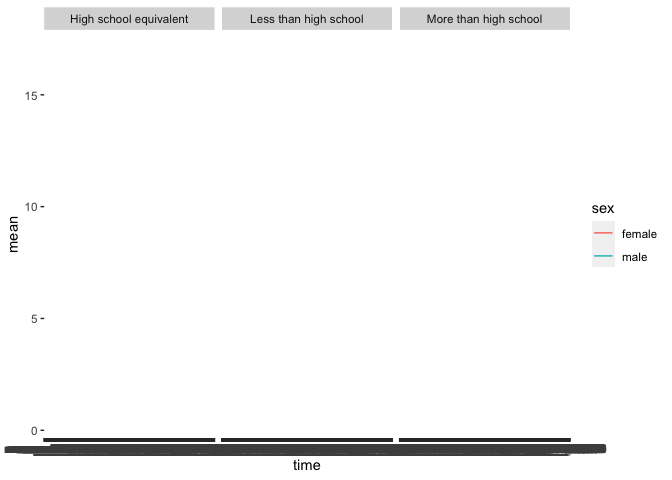
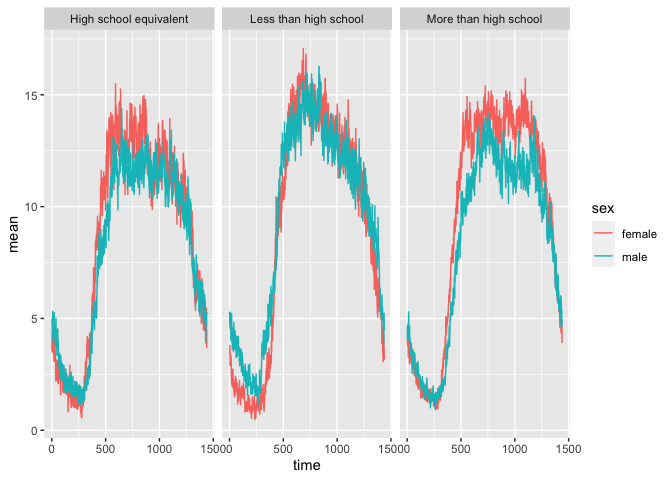
update last graph

diff --git a/p8105_hw3_yd2739.md b/p8105_hw3_yd2739.md
@@ -467,7 +467,11 @@ movement exceed female’s movement.
 grouped_24hr_avg_df = merged_acc_info_df|>
   group_by(education, sex)|>
   summarise(across(starts_with("min"), ~ mean(.), .names = "mean_{.col}"))|>
-  pivot_longer(cols = starts_with("mean_"), names_to = "time", values_to = "mean")
+  pivot_longer(cols = starts_with("mean_"), names_to = "time", values_to = "mean")|>
+  mutate(
+    time = substring(time, 9), 
+    time= as.numeric(time)
+  )
 ```
 
     ## `summarise()` has grouped output by 'education'. You can override using the
@@ -481,11 +485,9 @@ grouped_24hr_avg_plot = grouped_24hr_avg_df|>
 grouped_24hr_avg_plot
 ```
 
-    ## `geom_line()`: Each group consists of only one observation.
-    ## ℹ Do you need to adjust the group aesthetic?
-    ## `geom_line()`: Each group consists of only one observation.
-    ## ℹ Do you need to adjust the group aesthetic?
-    ## `geom_line()`: Each group consists of only one observation.
-    ## ℹ Do you need to adjust the group aesthetic?
-
 ![](p8105_hw3_yd2739_files/figure-gfm/unnamed-chunk-19-1.png)<!-- -->
+
+We could observe from the graph that for people have more than high
+school degree, average movement for female is higher than average
+movement for male.A All people shows low movement from 0 to 250min, this
+is probably they are sleeping.
